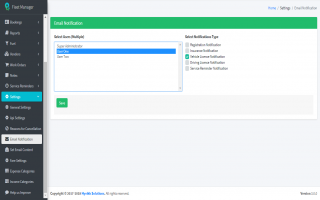
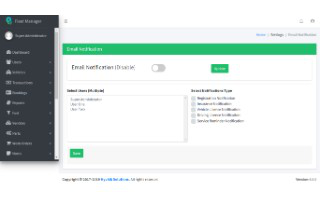
Email Notification Enable Disable Option Added

diff --git a/index.html b/index.html
@@ -1392,7 +1392,12 @@ Script comes with some Sample Data and you can see it on dashboard page in chart
 	<h2 class="dark-text">Email Notification Settings<hr></h2> 
 	<div class="row">
 	<div class="col-md-12">
-		<p>You can choose which notification to send as email and which user should receive it.</p>
+		<p>You can enable or disable email notifications.</br>
+<strong>
+Before enabling email notifications for the first time, you must have to set the email configuration in "PROJECT_FOLDER/framework/config/mail.php"
+</strong></br>
+You can choose which notification to send as email and which user should receive it. 
+</p>
 	</div>
  <div class="col-md-4">
 <a href="images/upload/en-settings.png" data-rel="prettyPhoto"><img src="images/upload/en-settings-thumb.png" alt="" class="img-responsive img-thumbnail"></a>
